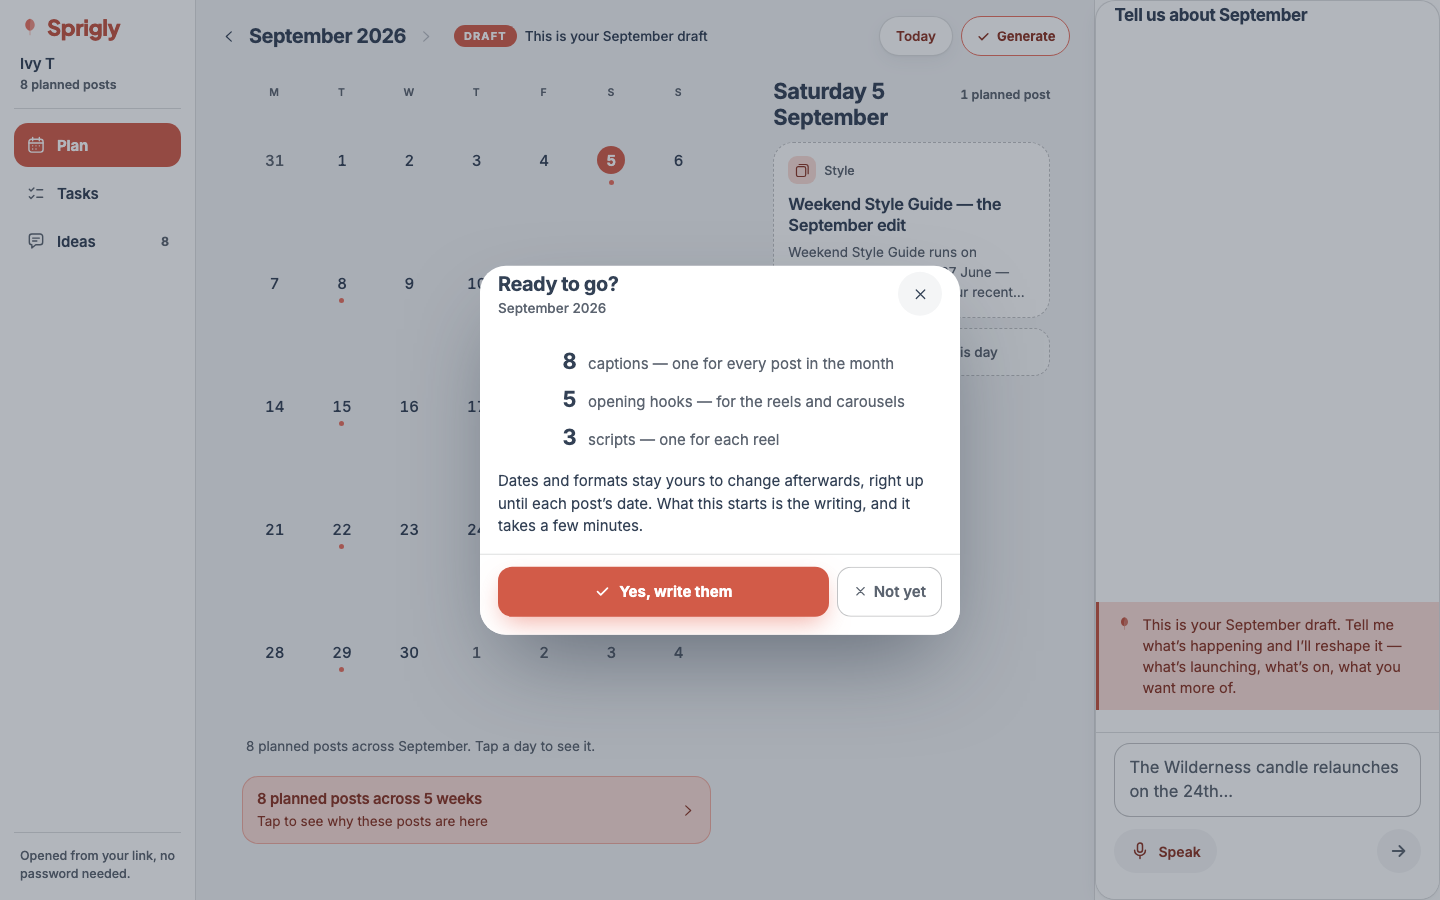
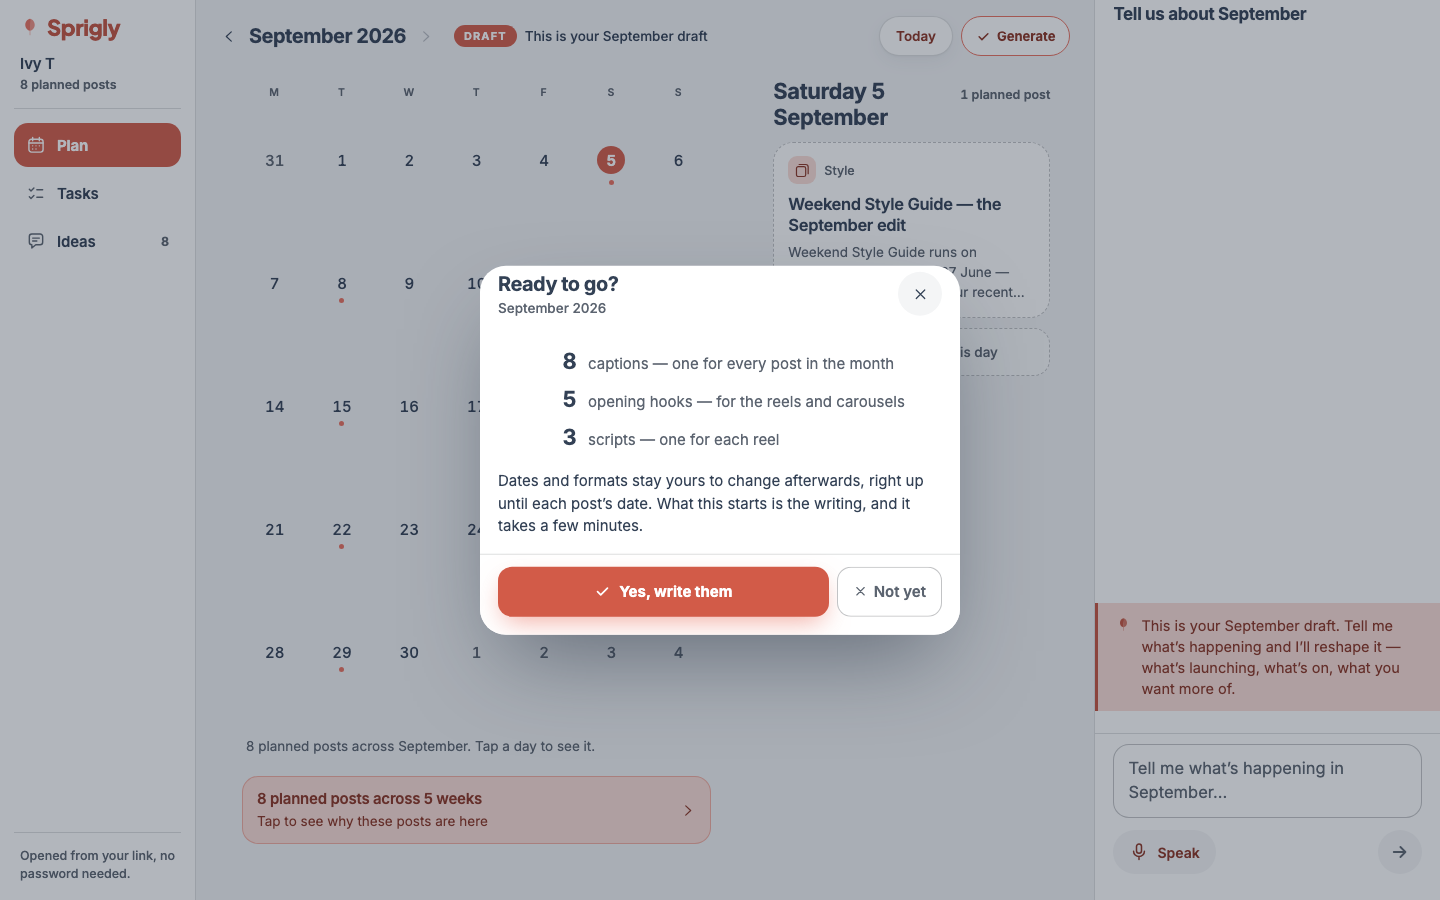
docs: the polish-2 report — the routing rule, the grep, and the widths
F2's rule is written out in full because it is the kind of thing that gets "simplified" later by
someone who has not hit the case it exists for: the three gates, why the request-in-question-form
gate runs first, and why every gate fails closed. Half of every reshape is phrased as a question,
so an answerer that catches those would be a worse regression than the bug it fixed.

The F1 grep is here in full — four rendered strings carrying another client's catalogue, three of
them unreported, and the list of what was checked and found clean, so the next person greps for
the delta rather than from scratch.

F4's measurements at all four widths, and the note that W1's ceiling did not go: it moved from
the shell down to the columns, so the app fills the window and the surplus is still balanced —
inside the app rather than around it.

The Generate modal screenshot is regenerated by the same suite run: the flat panel chrome is what
the confirm sits on now, so the artefact would otherwise be a picture of the old seams.

diff --git a/docs/reports/desktop-polish-2.md b/docs/reports/desktop-polish-2.md
@@ -1,0 +1,298 @@
+# Desktop polish 2 — chrome, and where a question goes
+
+**Branch:** `dev` · **Commits:** `795bcc0` (F1), `f962563` (F2), `9e273e3` (F3), `355e1ea` (F4/F5), plus this report.
+**Evidence:** five operator screenshots, 3 August.
+
+Five findings. One of them — F2 — was a missing distinction rather than a bug, and it took the
+longest to fix properly because the obvious fix would have broken something worse.
+
+---
+
+## Summary
+
+| | Finding | Outcome |
+|---|---|---|
+| **F1** | Another client's product in every composer | **Fixed**, plus three more places nobody had reported |
+| **F2** | Questions about the plan filed as new ideas | **Fixed at the routing layer**, before any model call |
+| **F3** | Summary foot buttons dead on desktop | **Fixed** — the dock was never listening |
+| **F4** | Chrome seams; the dock still a floating card | **Fixed** — the shell meets the viewport at every width |
+| **F5** | The wordmark vanishes when the rail collapses | **Fixed** — it stacks under the mark |
+
+---
+
+## F1 — the placeholder
+
+The composer read **"The Wilderness candle relaunches on the 24th…"** — a real Earl of East
+product — on every client's surface. The operator caught it on ivy-t's, where the only available
+reading is that we have shown them another brand's plan.
+
+A placeholder is a worked example, and a worked example built from one client's catalogue cannot
+be shown to another. The replacements are month-aware rather than product-aware: they demonstrate
+the *shape* of a useful sentence without borrowing anyone's inventory.
+
+| Context | Was | Is |
+|---|---|---|
+| Draft | "The Wilderness candle relaunches on the 24th…" | **"Tell me what's happening in September…"** |
+| Committed | "Move the Thursday post to Friday" | **"Ask about or change your plan…"** |
+
+The committed one leads with *ask* because asking is now something this composer does (F2). The
+old text offered one verb and one shape, and taught the composer as a command line.
+
+### The grep, and what it found
+
+Searched `app/src` for every rendered string carrying a client's or product's name
+(`wilderness|earl of east|ivy-t|sally|butterfly|hannah|linen shirt|corduroy|tote bag|mocha`),
+then read every `placeholder=` on a client-facing surface.
+
+**Rendering another client's catalogue — four, three of them unreported:**
+
+| File | String | Status |
+|---|---|---|
+| `surface/VoiceSheet.tsx:84` | "The Wilderness candle relaunches on the 24th…" | the reported one — **fixed** |
+| `plan/DraftPlanView.tsx:300` | "e.g. the Wilderness candle relaunches on the 24th" | **fixed** — pre-redesign draft surface, still reachable |
+| `surface/AddSheet.tsx:109` | "The Wilderness candle, back in stock" | **fixed** → "A restock, an event, a story you want told" |
+| `PlanApp.tsx:606` | "Make it softer · shorter · warmer · **more about the fabric**…" | **fixed** → "…more specific…" |
+
+The last is the same mistake one size down: "the fabric" assumes a clothing brand, and a candle
+maker reading it on their own editor is being shown someone else's vocabulary.
+
+**Checked and clean:** `IntakeCapture`'s multi-line PLACEHOLDER ("Big launch on the 25th", "A
+sale the last weekend of the month" — shapes, no products), its durable-item field, `PlanApp`'s
+change input ("Move the Tuesday post to Friday · …"), and `DetailSheet`'s refine field ("Warmer,
+and mention the relaunch earlier" — a category noun, nobody's product).
+
+**Every remaining `Wilderness` hit in `src` is a code comment** (`card-text.ts`,
+`draft-rationale.ts`, `types.ts`, and the new note in `VoiceSheet.tsx` recording the bug). No
+client reads a comment; they are documentation of real cases and were left alone.
+
+**The regression test inverts the old one.** The test that used to pin this asserted "the one
+example each context is allowed" — and was checking for the candle *by name*. It now asserts a
+word list (`wilderness`, `candle`, `earl of east`, `ivy`, `sally`) appears in **neither**
+placeholder, so the next example built from whatever data is to hand fails there rather than on
+a client's screen.
+
+---
+
+## F2 — questions about the plan
+
+> *"What ideas of mine are integrated into this month"* — filed as a new idea. Four phrasings,
+> four new ideas, no answer.
+
+### Why it happened
+
+`classifyIntake` split every utterance on one axis: **is this about this month, or is it for
+later?** It decided with topic words and datelessness — "ideas", no date, therefore a standing
+idea for the backlog. A question is not on that axis at all, so the catch-all caught it. A client
+asking what we did with their input was answered by us recording that they had said it again.
+
+### The rule, as implemented
+
+`parsePlanQuestion` (`packages/engine/src/intake-classify.ts`) is a **deterministic pre-parse**,
+sitting beside the typed-calendar-row one and **before any model call** — because whether a
+sentence is a question is a fact about its grammar, not a judgement about its content, and a
+judgement is what went wrong.
+
+> **Three gates. All three must pass.**
+>
+> 1. **It is interrogative** — a `?`, or a leading wh/auxiliary word (`what which why when where
+>    who how is are do does did can could will would should has have`), or an indirect opener
+>    (`tell me…`, `show me…`, `remind me…`, `list…`).
+> 2. **It is about the plan or its inputs** — a topic word: plan/month/post/schedule/calendar,
+>    idea/input/note/suggestion, reel/carousel/caption/beat/series/launch/pillar, a weekday, a
+>    month name, or a bare ordinal. **Dates count**: this composer is only ever pointed at a
+>    plan, so *"is there anything on the 14th?"* is about the month.
+> 3. **It is NOT a request in question form** — and this gate runs **first**.
+>
+> `kind` is `'ideas'` when the sentence is about the client's own contributions (`idea`, `input`,
+> `note`, `suggestion`, "I told you", "of mine"), and `'plan'` otherwise.
+
+**Gate 3 is the one that matters most.** Half of every reshape is phrased as a question — *"can
+we move the Friday post?"*, *"could you make the 3rd a carousel?"* — and routing those to an
+answerer would be a far worse regression than the bug being fixed: the client would be *told
+about* their month instead of changing it. An action verb aimed at the plan means **do it**,
+whatever the punctuation.
+
+**Every gate fails closed.** A false negative costs nothing — the sentence goes to the model,
+exactly as before. A false positive stops a client changing their month.
+
+`IntakeRouting` grows a third scope, `{ scope: 'question', kind }`. `routeFromParsed` is narrowed
+to `ModelRouting` (which excludes it), because a question is decided before the model is asked
+and saying so in the type keeps every existing `routing.intent` read narrowing correctly.
+
+### The answers are computed, not narrated
+
+`app/src/lib/plan-answers.ts`. Both answerers are pure derivations of rows the surface already
+renders — **no model call on either path.**
+
+- **Ideas** reads the same `lifecycle` states the Ideas view derives from and the month summary
+  counts with `fromClient`, scoped to the cycle on screen (`usedInCycleId`, not a rendered month
+  name — matching on a label would break the first time its format changed). It names each idea
+  **in her words** and the beat it became.
+- **Plan** is the month's own beats, read back. A draft has no captions and no knowledge bank:
+  its entire content *is* the beats, so narrating them through a model could only add words that
+  are not facts.
+
+A model here would produce a fourth account of the same rows, in prose, able to be wrong in ways
+the other three cannot. The one thing worse than not answering a client's question is answering
+it with an invented number.
+
+`datesNamedIn` resolves bare ordinals and **deliberately not "next week"** — that depends on
+today rather than on the month on screen, and getting it wrong is the exact bug X1a was raised
+for. Unresolved simply widens the answer to the whole month, which is honest.
+
+**A question receipt does not become the surface's receipt, and draws no summary chip.** A
+receipt records a change and offers a review of it; an answer changed nothing, and its place is
+the thread where it was asked.
+
+### The fixtures
+
+**The four phrasings, verbatim from the screenshot** — each answered with the integrated ideas
+and their beats, in the browser, and each asserting `GET /api/plan/ideas` returns the **same
+count afterwards**. That last half is what the bug would have failed silently.
+
+| Fixture | Routes to | Verified |
+|---|---|---|
+| "What ideas of mine are integrated into this month" | `ideas` | unit + e2e ✅ |
+| "Which of my ideas made it into September?" | `ideas` | unit + e2e ✅ |
+| "Have any of the things I told you been used this month?" | `ideas` | unit + e2e ✅ |
+| "Show me the ideas you used in this month's plan" | `ideas` | unit + e2e ✅ |
+| **"add an idea about winter layering"** | intake (files) | unit + e2e ✅ |
+| **"what's planned next week"** | `plan` (answers) | unit + e2e ✅ |
+| 8 requests in question form ("can we move the Friday post?" …) | intake/transforms | unit ✅ |
+| 6 statements ("more product this month", "make Fridays more personal") | intake | unit ✅ |
+
+**29 routing tests · 15 answer tests · 16 e2e across both projects.**
+
+One test was rewritten after the fact, and it is worth recording: I first asserted that *"Tell me
+about the launch on the 24th"* fell through, because there was no wh-word after "me". That was
+pinning a limitation, not a rule — someone asking to be told about their launch wants to be told
+about their launch. It answers now, and the mirror case (*"We are launching the candle on the
+24th"*) still files.
+
+---
+
+## F3 — the summary's foot buttons
+
+The assumption row and *"Not right? Tell us what to change"* did **nothing** on desktop. Two
+visible controls, no feedback, no error.
+
+Both called `setVoiceFor`, which on the phone opens the summoned sheet **and** points it at the
+question — one act, served by one mount-time effect behind a `historyLoaded` guard. The desktop
+**dock is never summoned**: it has been open since the page loaded, that effect had already run,
+and both buttons were changing a prop nobody was listening to.
+
+**`focusSignal` is a counter, not a flag**, and that is the whole fix. A boolean would already be
+true the second time a client taps "tell us what to change" — tap, get interrupted, tap again —
+and the second tap would be as dead as the first was. On the signal, the sheet appends the
+question as an agent turn if it is new and puts the cursor in the field. It is keyed on the
+signal **alone**: re-running on `question` would re-append the same turn on any unrelated
+re-render, and a thread that repeats itself reads worse than one that misses a line.
+
+The phone gets the signal too. It does not need it — one behaviour across both frames beats two
+paths that happen to agree.
+
+**Ten tests, five per frame**, asserting what a client would notice rather than that a click
+happened: the composer takes focus, the question arrives as a turn, the double-press works, the
+turn is not duplicated by re-renders, and **the request body is identical on both frames**. That
+last one is the point — a surface can look right and send something else, and the phone's path is
+the one that already worked, so the desktop's is held to *its* shape:
+
+```
+{ op: 'text', text: 'Nothing is launching in October', source: 'web' }
+```
+
+---
+
+## F4 — the chrome seams
+
+Three faults compounding into one: borders down both edges of the app, the rail and dock not
+flush with the viewport, and the dock container still a floating card.
+
+**W3 flattened the turns inside the dock and left the panel holding them a card** —
+`rounded-[20px]`, a border, a shadow. The seam moved rather than went. `Panel` is flat now, and it
+is the same argument one level up: **a panel is a region of the shell, not an object resting on
+it.** The fill change from canvas to surface is the whole separation it needs.
+
+**The shell's ceiling moved down a level rather than going.** W1 capped the whole shell at 1764
+and centred it — which stopped the columns growing, the right goal — but at 2560 it put the
+rail's left border and the dock's right border 400px inside the viewport with canvas either side.
+The app read as a bordered rectangle floating in a field.
+
+> Both rules hold at once now. The **shell is full-width** and its two edge regions are flush; the
+> ceiling lives on the **columns** (`max-w-cols` = 680 + 20 + 420 + gutters = 1168), which centre
+> in whatever is left between rail and dock. The columns still stop at 680/420, the surplus is
+> still balanced on both sides of them — W1's rule, unchanged in substance — and it is now inside
+> the app instead of around it.
+
+The header rides the same measure, or the month title would sit a long way from the grid it names.
+
+### Measured
+
+| Width | Shell L/R | Rail L | Dock R | Columns | Balanced ± | Panel radius / border / shadow | Overflow |
+|---|---|---|---|---|---|---|---|
+| 1024 | 0 / 0 | 0 | 0 | 636 | — (stacked) | 0px / 0px / none | no |
+| 1440 | 0 / 0 | 0 | 0 | 898 | 0 | 0px / 0px / none | no |
+| 1920 | 0 / 0 | 0 | 0 | **1168** | ≤1px | 0px / 0px / none | no |
+| 2560 | 0 / 0 | 0 | 0 | **1168** | ≤1px | 0px / 0px / none | no |
+
+![The shell at 1440](desktop-polish-2-shots/shell-1440.png)
+![The shell at 2560 — flush at both edges, columns centred between rail and dock](desktop-polish-2-shots/shell-2560.png)
+
+---
+
+## F5 — the wordmark and the collapsed rail
+
+At 68px the rail cannot hold "Sprigly" beside the leaf at 22px — the word is about 75px — so the
+identity was clipped or spilling over the month grid depending on where the overflow landed.
+
+It **stacks under the mark at 12px** now and fits with room. The mark keeps its 20px, so the
+identity reads at the same weight either way. An app that drops its own name when the navigation
+narrows has decided the name was decoration.
+
+| | Rail | Word | Size | Inside the rail | Arrangement |
+|---|---|---|---|---|---|
+| Collapsed (1024) | 68px | "Sprigly" | 12px | ✅ | stacked under the mark |
+| Expanded (1440) | 196px | "Sprigly" | 22px | ✅ | beside the mark |
+
+![Collapsed](desktop-polish-2-shots/rail-collapsed.png)
+![Expanded](desktop-polish-2-shots/rail-expanded.png)
+
+---
+
+## Gates
+
+| Gate | Result |
+|---|---|
+| App unit + interaction (Node 22) | **1430 passed, 38 skipped** |
+| Engine | **573 passed** |
+| Playwright, all projects | **126 passed, 2 skipped**, 1 flaky (mobile `conversation.spec.ts`, pre-existing, passed on retry) |
+| Playwright `desktop` | **32 passed** |
+| `tsc --noEmit` (app, engine) | clean |
+| Fences — draft-invisibility, tokens, terminology | all pass; `git diff` on each **empty** |
+| Hex literals in changed components | **zero** |
+| Design detector | **0 findings** (`Panel`, `DesktopShell`, `Rail`, `PlanShell`, `VoiceSheet`, `DraftSurface`) |
+| `pnpm --filter @sprigly/worker... build` | clean |
+
+E2E went **110 → 128** tests. The two pre-existing collect failures (`edit-scope.test.ts`,
+`post-generation.test.ts`, both on a missing `DATABASE_URL` at import) are unchanged.
+
+**One consumer outside the app needed the new scope**: `engine/src/content-cycles/
+classify-check-cli.ts`, the operator's classification-check tool, now prints `question/ideas`
+instead of failing to compile. Caught by the worker build, which is why it is in the gate list.
+
+---
+
+## Noted, not fixed
+
+1. **The month summary's answerable row is desktop-and-mobile identical now, but only one
+   assumption is ever offered.** That was a deliberate M4 decision (asking a client three things
+   at once is a different act from asking one) and this session did not revisit it.
+2. **`max-w-shell` is retained in the theme** though the shell no longer uses it: the spec's §2.6
+   arithmetic is stated in terms of it. §2.6 should be updated to describe where the ceiling
+   actually lives now — a docs change this session did not make, since the brief scoped the
+   report to `desktop-polish-2.md`.
+3. **The committed-month agent path was not changed.** It already routes questions to a `query`
+   action with its own answerer, and the reported failure was on the draft path
+   (`applyTextToDraft` → `saveToBacklog` is the only thing that "files a new idea"). If the same
+   phrasings misroute on a committed month, that is a second fix in the task parser's prompt and
+   wants its own evidence.
